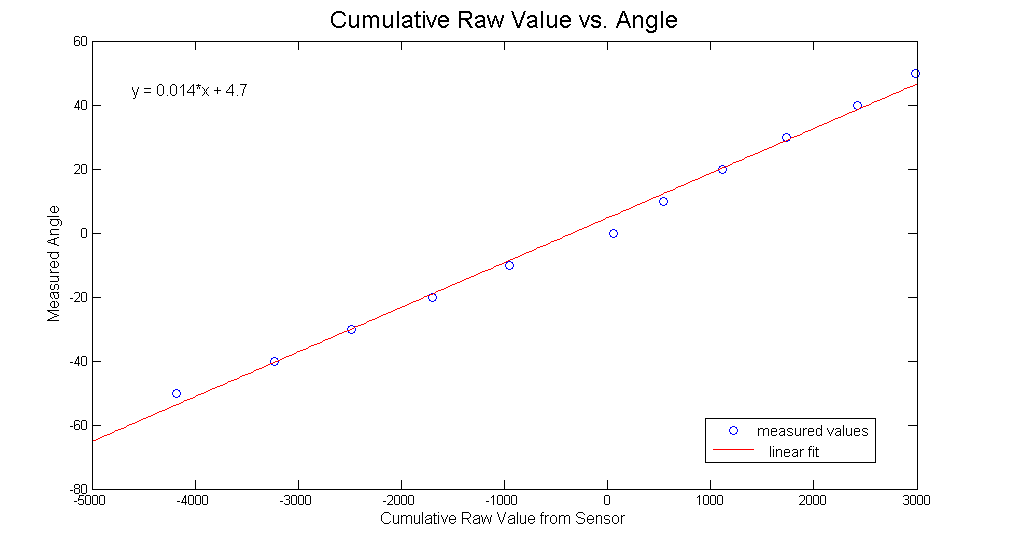
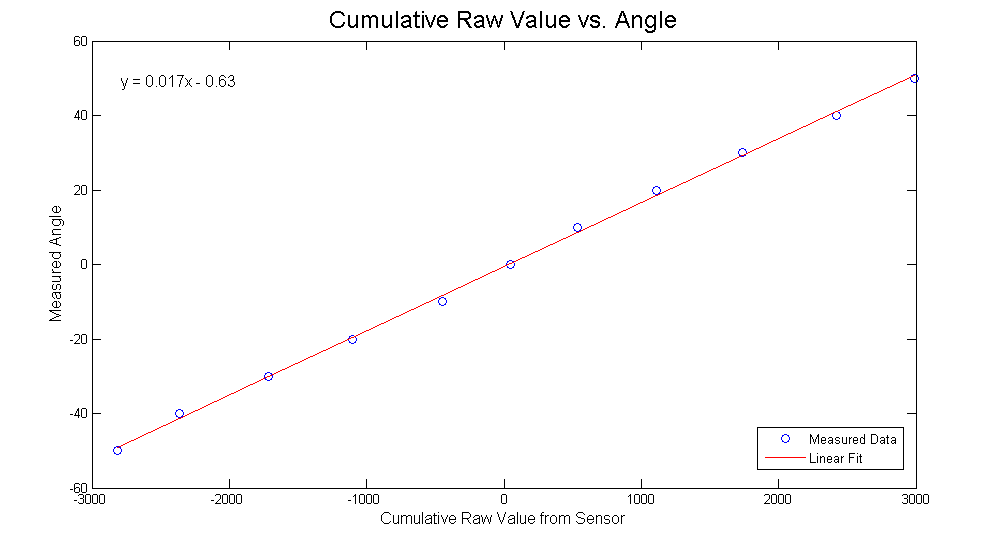
fixed math, added comments

diff --git a/hapticPaddle/angleRead.c b/hapticPaddle/angleRead.c
@@ -14,26 +14,22 @@ int16_t rawPos;         // current raw reading from MR sensor
 int16_t lastRawPos;     // last raw reading from MR sensor
 int16_t lastLastRawPos; // last last raw reading from MR sensor
 int16_t flipNumber;     // keeps track of the number of flips over the 180deg mark
-int16_t tempOffset;
-int16_t rawDiff;
 int16_t lastRawDiff;
-int16_t rawOffset;
 int16_t lastRawOffset;
-int16_t cumulativeVal;
+int16_t cumulativeVal;      // cumulative sensor value
 uint16_t flipThresh = 600;  // threshold to determine whether or not a flip over the 180 degree mark occurred
 bool flipped = false;
 
 void countFlips(_TIMER *self) {
     rawPos = pin_read(&A[5]) >> 6;
-
-    rawDiff = rawPos - lastRawPos;          
+     
     lastRawDiff = rawPos - lastLastRawPos; 
-    rawOffset = abs(rawDiff);
     lastRawOffset = abs(lastRawDiff);
     
     lastLastRawPos = lastRawPos;
     lastRawPos = rawPos;
-      
+    
+    //check for flip and increment or decrement accordingly
     if((lastRawOffset > flipThresh) && (!flipped)) { 
         if(lastRawDiff > 0) {        
             flipNumber--;             
@@ -44,10 +40,12 @@ void countFlips(_TIMER *self) {
     } else {                       
         flipped = false;
     }
+
+    cumulativeVal = rawPos + flipNumber*700    //each flip changes cumulative value by 700
 }
 
 void printVals(_TIMER *self) {
-    printf("%d:%d\n",rawPos,flipNumber);
+    printf("%d\n",cumulativeVal);
 }
 
 int16_t main(void) {
@@ -75,16 +73,14 @@ int16_t main(void) {
     pin_digitalOut(&D[7]);
     pin_set(&D[7]);
 
-    //pin_digitalOut(&D[6]);
-    //oc_pwm(&oc1, &D[6], &timer2, 20000, 60000);
-
     lastLastRawPos = pin_read(&A[5]) >> 6;
     lastRawPos = pin_read(&A[5]) >> 6;
 
-    timer_every(&timer2,.0005,countFlips);
+    timer_every(&timer2,.0005,countFlips); //keep track of position
 
-    timer_every(&timer1,.5,printVals);
+    timer_every(&timer1,.5,printVals);     //report position
 
     while(1) {
+
     }
 }
